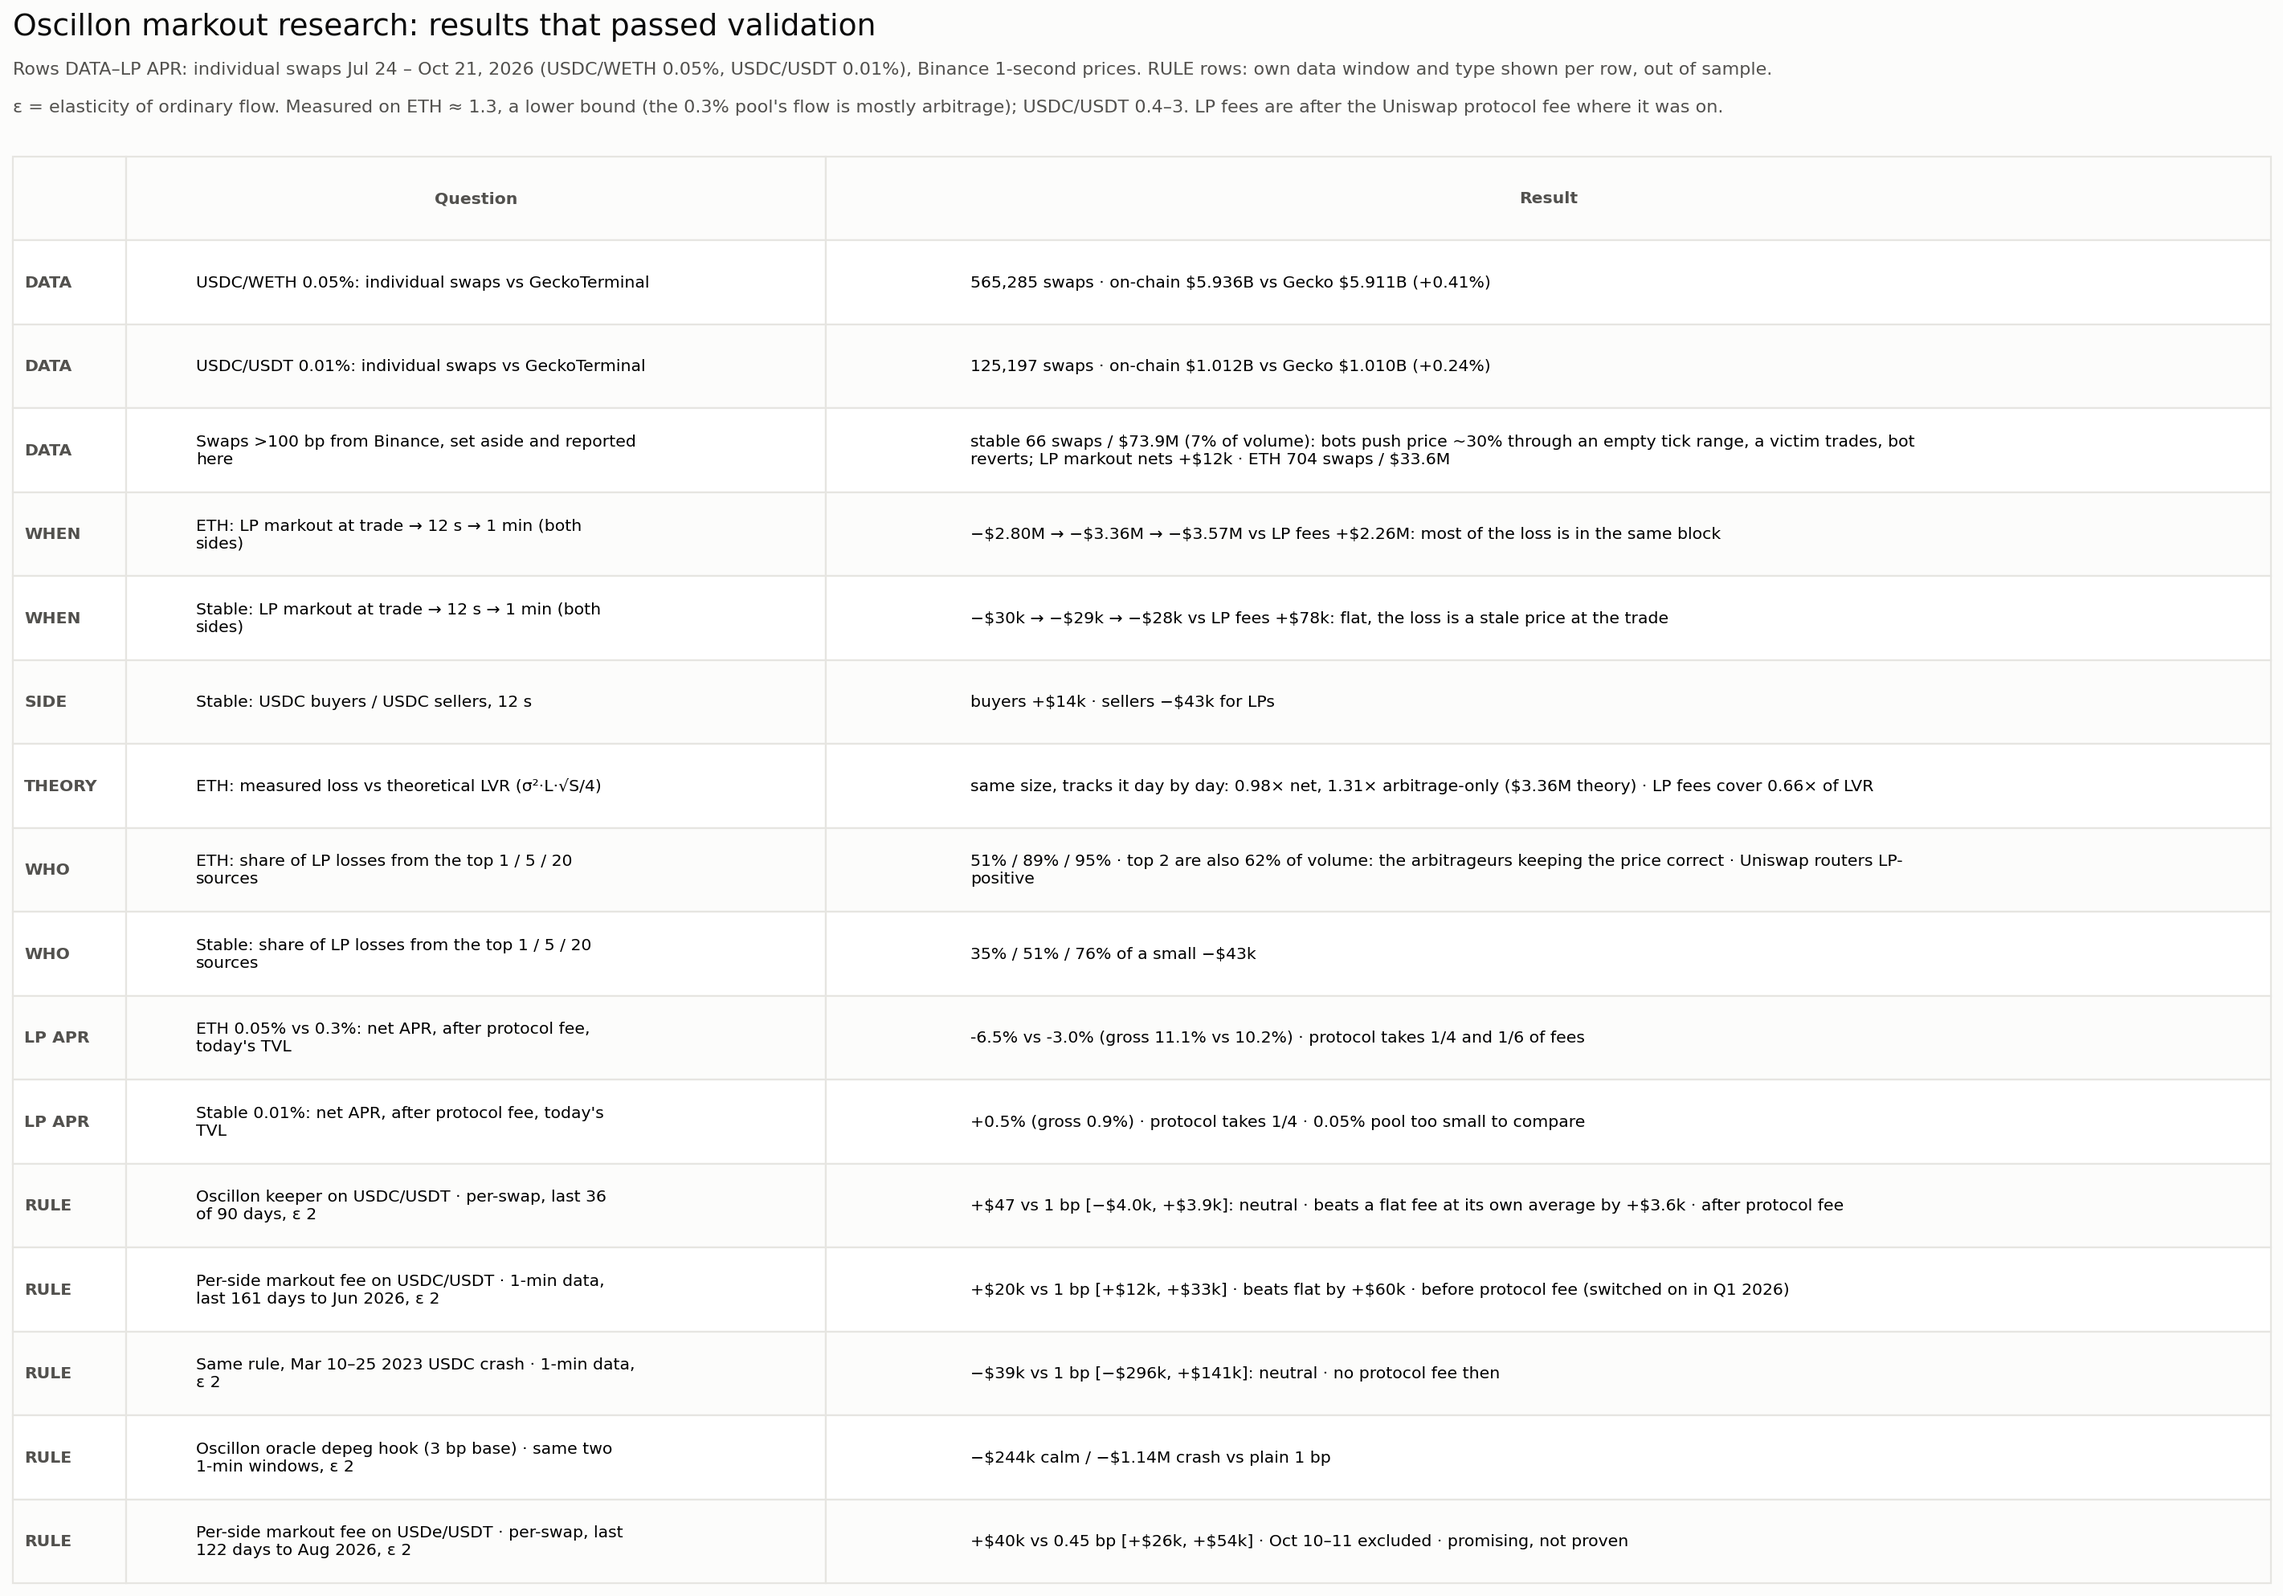
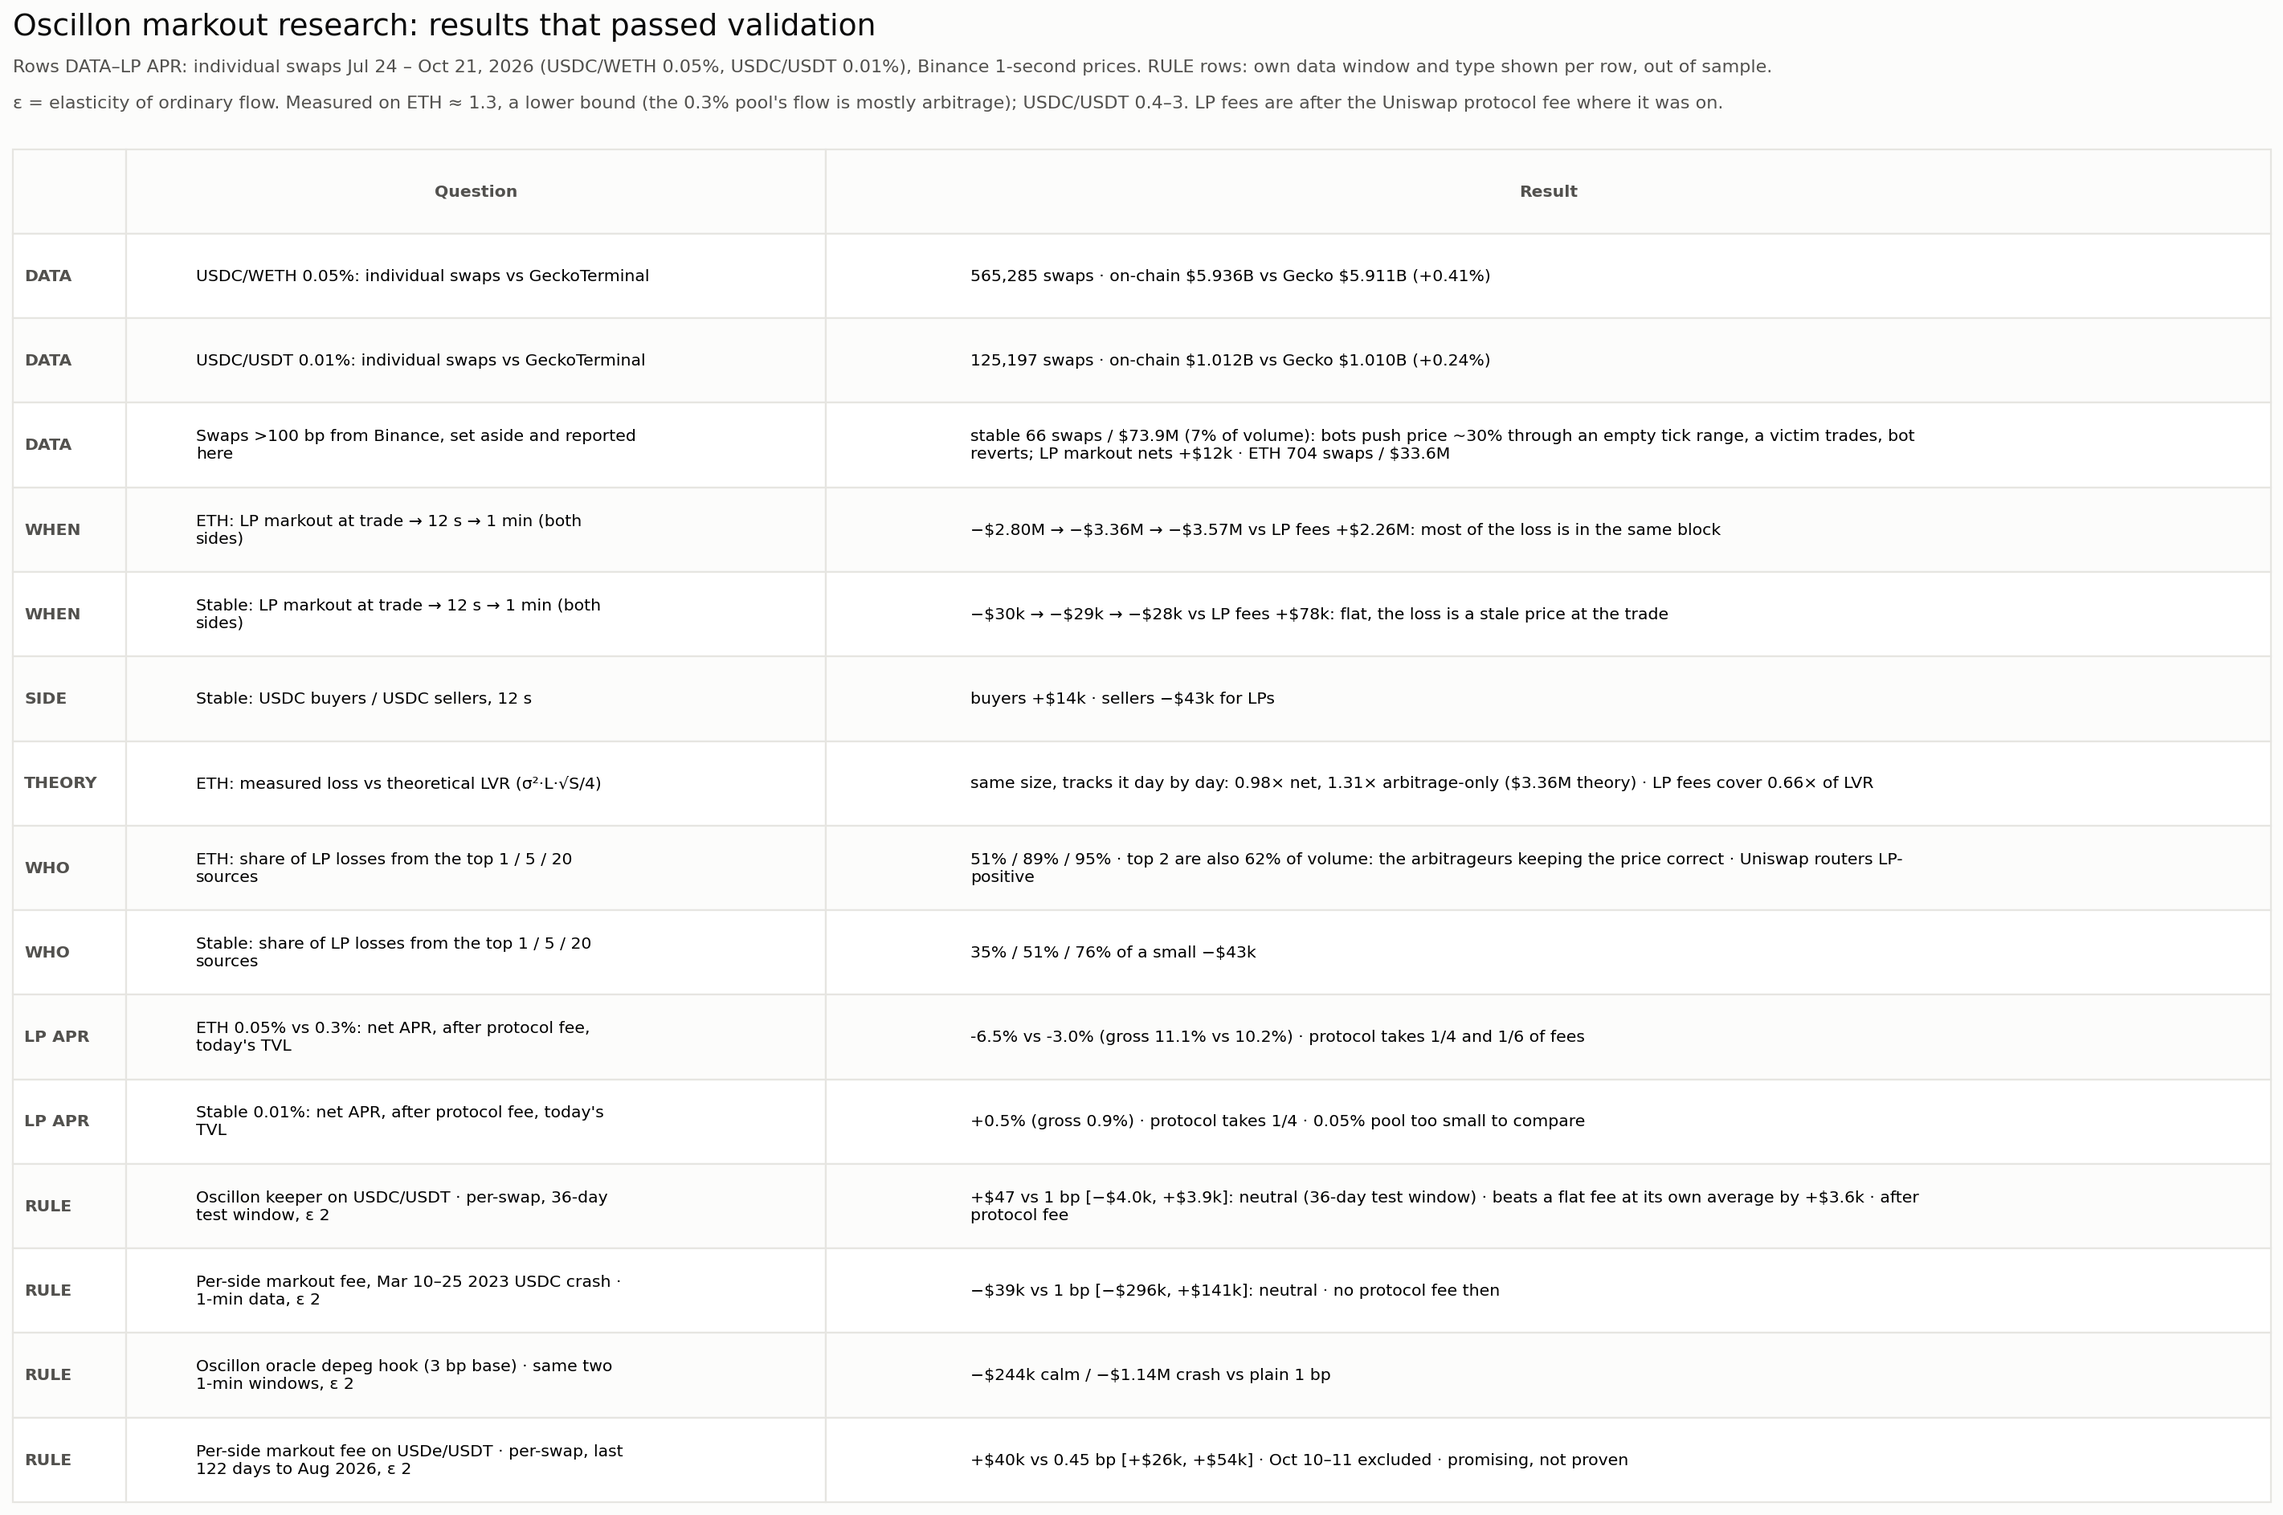
Remove role-specific wording; drop superseded 1-min +$20k row from the validated page
- REPORT_HEAD_OF_LP.md renamed to REPORT_MARKOUT_RESEARCH.md; references updated
- V1 page and RESULTS_VALIDATED.md show the per-swap keeper result with its 36-day test window;
  the earlier 1-minute +$20k moves to the left-out table

diff --git a/research/markout-backtest/validated_summary.py b/research/markout-backtest/validated_summary.py
@@ -30,7 +30,6 @@ def daily_vs_flat(path, rule):
     return (d[d.policy == rule].groupby("day").lp_pnl.sum() - d[d.policy == f"flat_{rule}"].groupby("day").lp_pnl.sum()).sum()
 
 
-flat_y1 = daily_vs_flat("data_1y/daily_results.csv", "markout")
 flat_kp = daily_vs_flat("data_usdt_swaps/daily_results.csv", "oscillon_keeper")
 
 mk = pd.read_csv("data_swaps/usdc_weth_5bp_markouts.csv"); mk = mk[~mk.flagged.astype(bool)]
@@ -83,13 +82,10 @@ rows = [
      f"{sw['competitor_today']['gross_apr']:.1f}%) · protocol takes 1/4 and 1/6 of fees"),
     ("LP APR", "Stable 0.01%: net APR, after protocol fee, today's TVL",
      f"{su['today']['net_apr']:+.1f}% (gross {su['today']['gross_apr']:.1f}%) · protocol takes 1/4 · 0.05% pool too small to compare"),
-    ("RULE", "Oscillon keeper on USDC/USDT · per-swap, last 36 of 90 days, ε 2",
-     f"{k(kp['oscillon_keeper']['test']['edge_vs_vanilla'])} vs 1 bp {ci(kp['oscillon_keeper']['test']['edge_vs_vanilla_ci90'])}: neutral · "
-     f"beats a flat fee at its own average by {k(flat_kp)} · after protocol fee"),
-    ("RULE", "Per-side markout fee on USDC/USDT · 1-min data, last 161 days to Jun 2026, ε 2",
-     f"{k(y1['markout']['test']['edge_vs_vanilla'])} vs 1 bp {ci(y1['markout']['test']['edge_vs_vanilla_ci90'])} · beats flat by {k(flat_y1)} · "
-     f"before protocol fee (switched on in Q1 2026)"),
-    ("RULE", "Same rule, Mar 10–25 2023 USDC crash · 1-min data, ε 2",
+    ("RULE", "Oscillon keeper on USDC/USDT · per-swap, 36-day test window, ε 2",
+     f"{k(kp['oscillon_keeper']['test']['edge_vs_vanilla'])} vs 1 bp {ci(kp['oscillon_keeper']['test']['edge_vs_vanilla_ci90'])}: neutral "
+     f"(36-day test window) · beats a flat fee at its own average by {k(flat_kp)} · after protocol fee"),
+    ("RULE", "Per-side markout fee, Mar 10–25 2023 USDC crash · 1-min data, ε 2",
      f"{k(crash['markout']['stress']['edge_vs_vanilla'])} vs 1 bp {ci(crash['markout']['stress']['edge_vs_vanilla_ci90'])}: neutral · no protocol fee then"),
     ("RULE", "Oscillon oracle depeg hook (3 bp base) · same two 1-min windows, ε 2",
      f"{k(y1['oscillon_hook']['test']['edge_vs_vanilla'])} calm / {k(crash['oscillon_hook']['stress']['edge_vs_vanilla'])} crash vs plain 1 bp"),

diff --git a/research/markout-backtest/RESULTS_VALIDATED.md b/research/markout-backtest/RESULTS_VALIDATED.md
@@ -1,6 +1,6 @@
 # Oscillon markout research: validated results
 
-*For the Head of LP. Only results that passed validation are here; everything else is listed at the end with the reason it was left out.*
+*Only results that passed validation are here; everything else is listed at the end with the reason it was left out.*
 
 **The product tested:** a keeper measures markout separately for each side of the pool, and sets that side's fee to `pool fee + κ × max(0, measured loss)`, hard-capped at 100 bp. No oracle.
 
@@ -59,8 +59,7 @@
   | 3 | −$3.1k [−$8.4k, +$1.5k] | +$2.8k |
 
   At realistic elasticity it neither gains nor loses against plain 1 bp, but it consistently beats a flat fee at the same average. Its timing works; on this pool, in these 36 days, there wasn't much to recover.
-- **Per-side markout fee on USDC/USDT, 1-minute data, last 161 days to Jun 2026, elasticity 2:** +$20k (range +$12k to +$33k), beating its flat control by $60k. This is before the protocol fee, which was switched on during that window, and on coarser data than the row above.
-- **Same rule in the Mar 10–25, 2023 USDC crash (1-minute data):** neutral, −$39k (range −$296k to +$141k).
+- **Per-side markout fee in the Mar 10–25, 2023 USDC crash (1-minute data):** neutral, −$39k (range −$296k to +$141k).
 - **The original Oscillon oracle depeg hook (3 bp base) lost to plain 1 bp:** −$244k in the calm year and −$1.14M in the crash.
   - It charges only USDC sellers, and the oracle can't tell a falling price from a recovering one.
 - **Per-side markout fee on USDe/USDT** (individual swaps, last 122 days to Aug 2026, elasticity 2): +$40k (range +$26k to +$54k), with Oct 10–11 excluded as a Binance price dislocation. **Promising, not proven.**
@@ -73,6 +72,7 @@
 | Mar 2023 dollar split by direction | Built from one-minute totals, where same-minute round trips inflate both sides |
 | Cross-pair dollar comparisons (USDS, PYUSD, FRAX, AUSD) | No fast market price for those pairs; measured only against each pool's own later price |
 | Whole-year fee-rule figures | They include the days the rules were fitted on |
+| Earlier +$20k for the markout fee on USDC/USDT (1-minute data, Jan – Jun 2026) | Superseded by the per-swap keeper result above: 1-minute data merges different traders, and it assumed LPs kept the full fee before the protocol fee was switched on |
 | USDC/USDT 0.01% vs 0.05% APR comparison | The 0.05% pool is too small (3,282 swaps, $0.5M TVL) |
 
 ## Limits that still apply

diff --git a/research/markout-backtest/REPORT_MARKOUT_RESEARCH.md b/research/markout-backtest/REPORT_MARKOUT_RESEARCH.md
@@ -1,6 +1,6 @@
 # Dynamic LP fees for stablecoin pools: what survived testing
 
-*For the Head of LP. Every figure comes from replaying real pool flow under each fee rule and scoring every trade from the LP's side. Charts are PNGs in this folder.*
+*Every figure comes from replaying real pool flow under each fee rule and scoring every trade from the LP's side. Charts are PNGs in this folder.*
 
 | | USDC/USDT (main study) | USDe/USDT (real swaps) | March 2023 USDC depeg |
 |---|---|---|---|
@@ -216,7 +216,7 @@ Five more pools have real swap data but no fast market price, so all seven are c
 
 ---
 
-## 8. What a Head of LP or market maker will look for
+## 8. What an LP or market maker will look for
 
 | Question | What this study shows | Gap |
 |---|---|---|

diff --git a/research/markout-backtest/REPORT_1Y.md b/research/markout-backtest/REPORT_1Y.md
@@ -1,4 +1,4 @@
-> **Superseded for decisions by `REPORT_HEAD_OF_LP.md`**, which leads with out-of-sample results and compares every crash result against vanilla. Kept for its detail on the markout trigger.
+> **Superseded for decisions by `REPORT_MARKOUT_RESEARCH.md`**, which leads with out-of-sample results and compares every crash result against vanilla. Kept for its detail on the markout trigger.
 
 # Oscillon stable-fee hook: oracle trigger vs markout trigger
 
